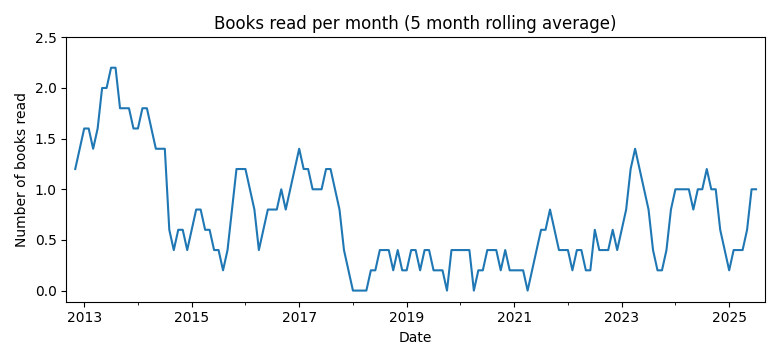
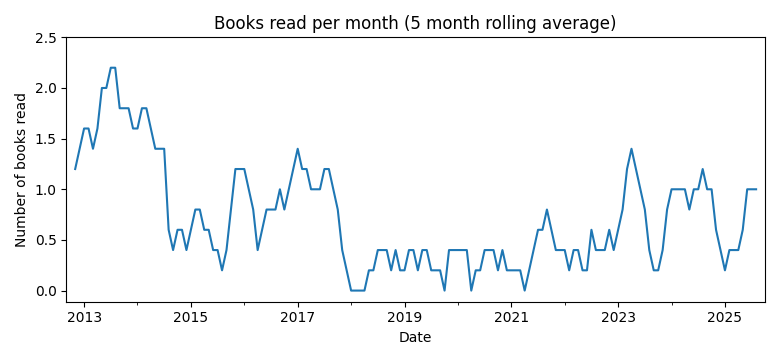
turn the ship around

diff --git a/README.md b/README.md
@@ -3,13 +3,16 @@
 I started this log on October 30th, 2012. I list all books I read.  
 
 ### Statistics
-Total number of books read: 115  
-Books per month: 0.73 (2012/9 to 2025/9)
+Total number of books read: 116  
+Books per month: 0.73 (2012/9 to 2025/10)
 
 ![Books recorded by year](book_recorded.png)
 ![Books read per month](book_read.png)
 
 ### List of books
+*Turn the ship around!*, L. David Marquet  
+Finished: 2025.10.24
+
 *Quantentheorie und Philosophie (Reclam)*, Werner Heisenberg  
 Finished: 2025.09.07
 
